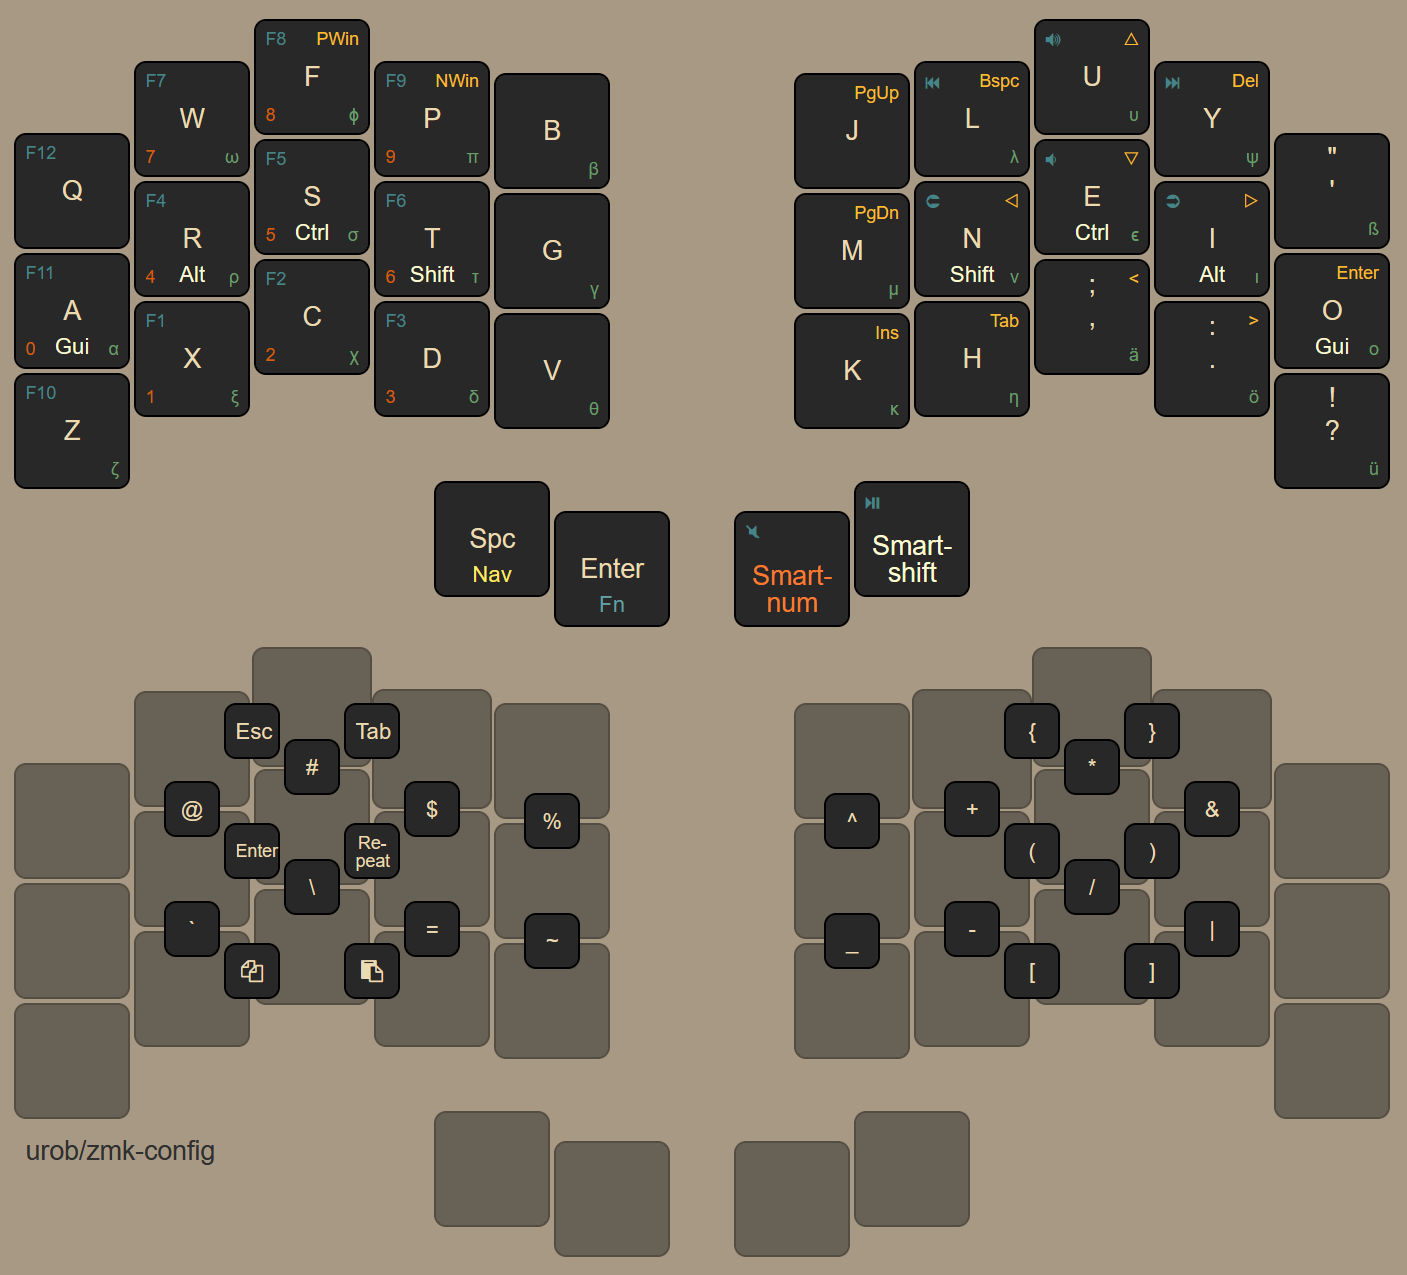
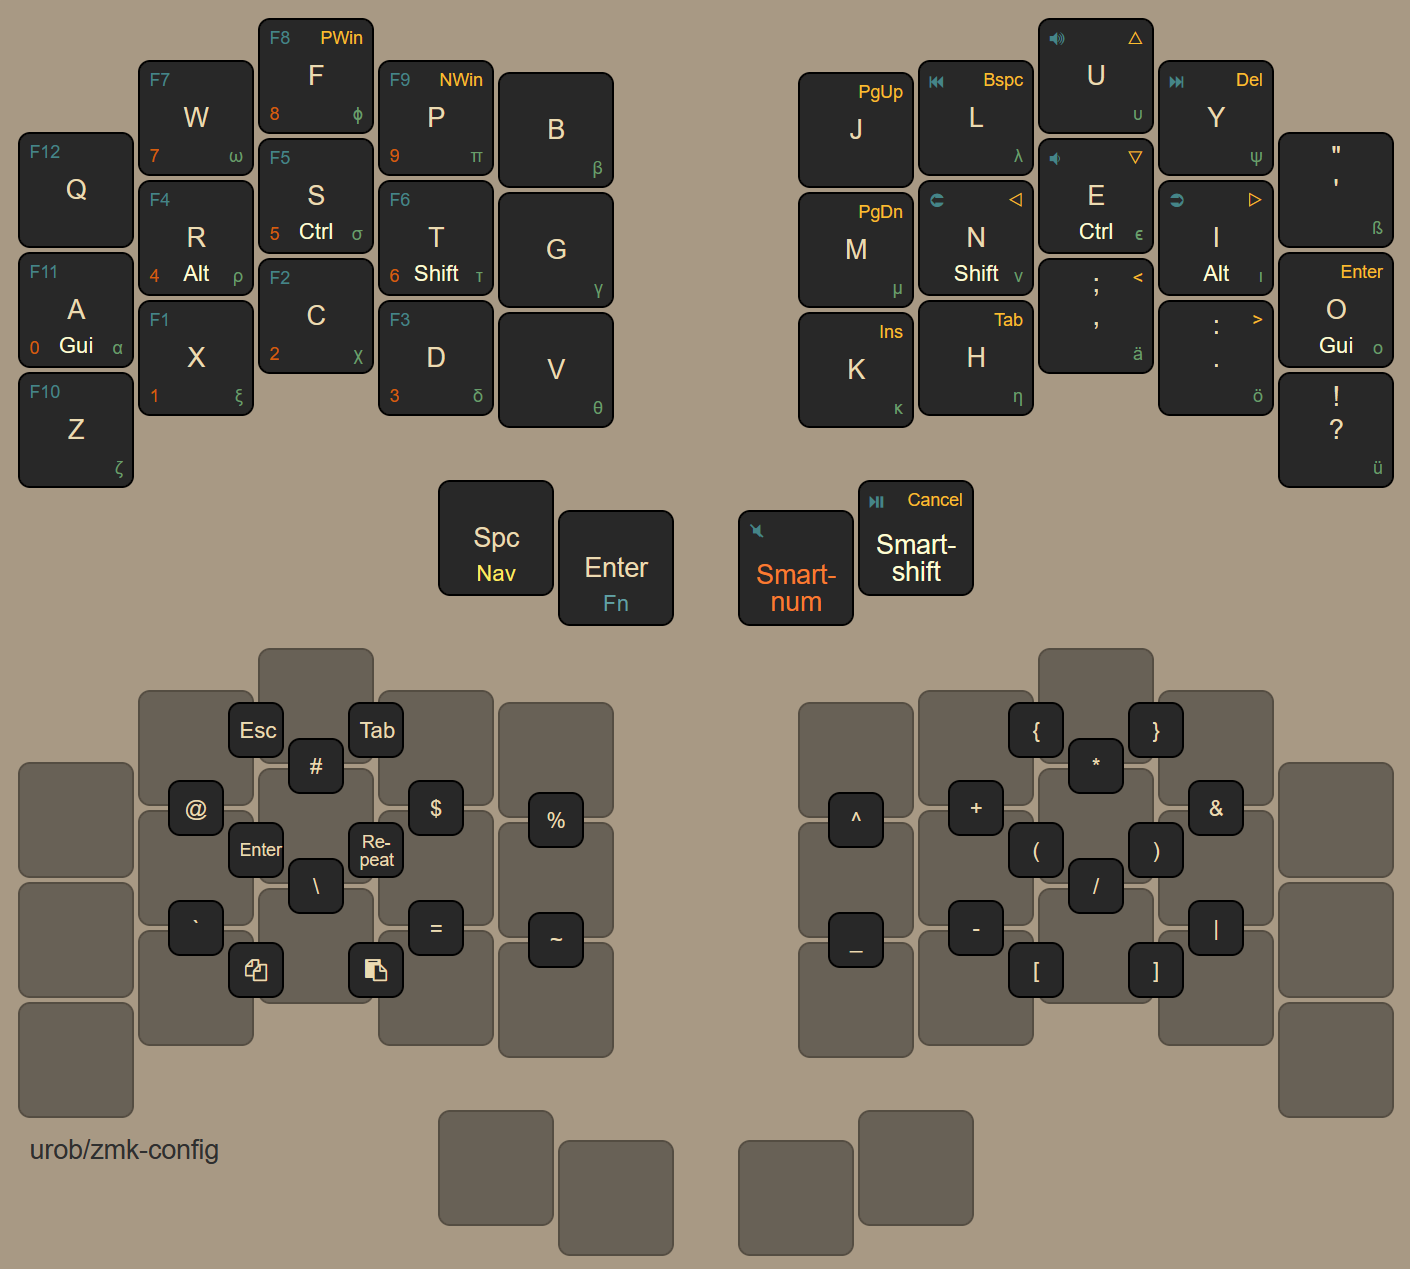
Expand documentation

diff --git a/readme.md b/readme.md
@@ -4,7 +4,7 @@ This is my personal [ZMK firmware](https://github.com/zmkfirmware/zmk/) configur
 It consists of a 34-keys base layout that is re-used for various boards, including my
 Corneish Zen and an Advantage 360 pro.
 
-## *Key* features
+## Highlights
 
 - clean keymap + unicode setup using helper macros from
   [zmk-nodefree-config](https://github.com/urob/zmk-nodefree-config)
@@ -13,21 +13,14 @@ Corneish Zen and an Advantage 360 pro.
   larger boards by padding it via a modular structure of "extra keys"
 - ["timer-less" homerow mods](#timeless-homerow-mods) 
 - combos replacing the symbol layer
-- a smart-layer implementation for ZMK that automatically toggles the numbers
-  layer
-- long-pressing the arrow-cluster yields home, end, begin/end of document, and
-  fwd/bwd-delete words
-- sticky shift on right thumb, double-tap (or shift + tap)[^1] activates
-  caps-word
-- <kbd>shift</kbd> + <kbd>,</kbd> morphs into <kbd>;</kbd>  and
-  <kbd>shift</kbd> + <kbd>.</kbd> morphs into <kbd>;</kbd> (freeing up the
-  right pinky for <kbd>? / !</kbd>)
-- <kbd>shift</kbd> + <kbd>ctrl</kbd> + <kbd>,</kbd> morphs into <kbd><</kbd>
-  and <kbd>shift</kbd> + <kbd>ctrl</kbd> + <kbd>.</kbd> morphs into
-  <kbd>></kbd>
+- smart numbers and smart mouse layers that automatically toggle off when done
+- sticky shift on right thumb, double-tap (or shift + tap)[^1] activates caps-word
+- arrow-cluster doubles as <kbd>home</kbd>, <kbd>end</kbd>, <kbd>begin/end of
+  document</kbd> on long-press
+- more intuitive shift-actions: <kbd>, ;</kbd>, <kbd>. :</kbd> and <kbd>? !</kbd>
 - <kbd>shift</kbd> + <kbd>space</kbd> morphs into <kbd>dot</kbd> →
   <kbd>space</kbd> → <kbd>sticky-shift</kbd>
-- "Greek" layer for mathematical typesetting (activated via sticky-layer combo)
+- "Greek" layer for mathematical typesetting (activated as sticky-layer via a combo)
 - modified Github Actions workflow that recognizes git-submodules
 - automated
   [build-scripts](https://github.com/urob/zmk-config/tree/main/scripts#readme)
@@ -147,14 +140,19 @@ PRs, you might find this [ZMK-centric introduction to
 Git](https://gist.github.com/urob/68a1e206b2356a01b876ed02d3f542c7) helpful.
 
 
-## Combo setup
+## Using combos instead of a symbol layer
 
-My layout makes heavy use of combos. Thanks to `global-quick-tap` for combos
-(introduced in above mentioned PR #1387), combo misfires are rare, even when
-rolling keys. Most of my combos are bind to symbols, replacing the usual
-symbols layer seen on many sub-40 keyboard layouts. The combos are designed so
-as to put the most used symbols in easy-to-access locations while also making
-them easy to remember. Specifically:
+I am a big fan of combos for all sort of things. In terms of comfort, I much prefer them
+over accessing layers that involve lateral thumb movements to be activated, especially
+when switching between different layers in rapid succession.
+
+One common concern about overloading the layout with combos is that they lead to
+misfires. Fortunately, the above-mentioned PR #1387, also adds a `global-quick-tap` option 
+for combos, which in my experience all but completely eliminates the problem -- even
+when rolling keys on the home row!
+
+My combo layout aims place the most used symbols in easy-to-access
+locations while also making them easy to remember. Specifically:
 
 - the top vertical-combo row matches the symbols on a standard numbers row
   (except `+` and `&` being swapped)
@@ -162,37 +160,70 @@ them easy to remember. Specifically:
   aligns with superscript `^`; minus `-` aligns with `+`; division `/` aligns
   with multiplication `*`; logical-or `|` aligns with logical-and `&`)
 - parenthesis, braces, brackets are set up symmetrically as horizontal combos
-- cut (on `X + D`), copy, and paste are on the left side for one-handed mouse
-  use
-- `L + Y` activates Greek layer for the next key press, `L + U + Y` activates the shifted
-  Greek layer the next key
-- `tap`, `esc`, `enter` are on horizontal combos
+- left-hand side combos for `tap`, `esc`, `enter`, `cut` (on <kbd>X</kbd> + <kbd>D</kbd>),
+  `copy` and `paste` that go well with right-handed mouse usage
+- <kbd>L</kbd> + <kbd>Y</kbd> switches to the Greek layer for a single key
+  press, <kbd>L</kbd> + <kbd>U</kbd> + <kbd>Y</kbd> activates one-shot shift in
+  addition
+- <kbd>W</kbd> + <kbd>P</kbd> activates the smart mouse layer
 
-## Experimental changes
+## Smart layers and other gimmicks
 
-- I recently reduced my core layout to 34 keys. Backspace and Delete are now on
-  my Navigation-layer. To make room for these keys, I have added hold-taps to
-  the arrow cluster, which now double as Home/End and Beginning/End of
-  document. I really like the new navigation cluster and will likely keep it in
-  one way or another
-- Inspired by Jonas Hietala's
-  [Numword](https://www.jonashietala.se/blog/2021/06/03/the-t-34-keyboard-layout/#where-are-the-digits)
-  for QMK, I implemented my own version of [Smart-layers for
-    ZMK](https://github.com/zmkfirmware/zmk/pull/1451). It is triggered via a
-    single tap on my Num-key (holding the key will activate the num layer as
-    usual without triggering Numword). Similar to Capsword, Numword continues
-    to be activated as long as I type numbers, and deactivates automatically on
-    any other keypress. I found that I use Numword for most of my numbers
-    typing. For single digits, it effectively is a sticky-layer, but
-    importantly I can also use it for multiple digits. The only case where it
-    doesn't deactivate automatically is where immediately after a digit I would
-    type any of the letters on which my numpad is located (WFPRSTXCD), which is
-    rare, but does happen. For these cases I have a CANCEL key on my Nav layer
-    that cancels both Numword and Capsword.
-- Since the switch to 34 keys, I freed up the tap-position on my left-most
-  thumb key. For now I added a secondary Bspc, but I am still searching for a
-  better use. (I tried adding Repeat here but I found that it doesn't work well
-  adjacent to space, which requires to much lateral thumb-movements)
+##### Numword
+
+Inspired by Jonas Hietala's
+[Numword](https://www.jonashietala.se/blog/2021/06/03/the-t-34-keyboard-layout/#where-are-the-digits)
+for QMK, I implemented my own version of [Smart-layers for
+ZMK](https://github.com/zmkfirmware/zmk/pull/1451). It is triggered via a
+single tap on "Smart-Num". Numword continues to be activated as long as I
+type numbers, and deactivates automatically on any other keypress (holding it activates 
+a non-sticky num layer).
+
+After using Numword for about 6 months now, I have been overall very happy with it. When
+typing single digits, it effectively is a sticky-layer but with the added advantage that 
+I can also use it to type multiple digits. 
+
+The main downside is that if a sequence of numbers is *immediately* followed by any of the
+letters on which my numpad is located (WFPRSTXCD), then the automatic deactivation won't
+work. But this is rare -- most number sequences are terminated by `space`, `return` or some form
+of punctuation/delimination. To deal with the rare cases where they aren't, there is a 
+`CANCEL` key on the navigation-layer that deactivates Numword, Capsword and Smart-mouse.
+
+##### Smart-Mouse
+
+Similarly to Numword, I have a smart-mouse layer (activated by comboing
+<kbd>W</kbd> + <kbd>P</kbd>), which replaces the navigation cluster with
+scroll and mouse-movements, and replaces the right thumbs with mouse buttons.
+Pressing any other key automatically deactivates the layer.
+
+##### Capsword
+
+My right thumb triggers three variations of shift: Tapping yields
+sticky-shift (used to capitalize alphas), holding activates a regular shift, and
+double-tapping (or equivalently shift + tap) activates ZMK's Caps-word behavior.
+
+One minor technical detail: While it would be possible to implement the double-tap functionality
+as a tap-dance, this would add a delay when using single taps. To avoid the delays, I 
+instead implemented the double-tap functionality as a mod-morph.
+
+##### Multi-purpose Navigation cluster
+
+To economize on keys, I am using hold-taps on my navigation cluster, which yield `home`, `end`,
+`begin/end of document`, and `delete word forward/backward` on long-presses.
+
+##### Swapper
+
+I am using [Nick Conway](https://github.com/nickconway)'s fantastic
+[tri-state](https://github.com/zmkfirmware/zmk/pull/1366) behavior for a
+one-handed Alt-Tab switcher (`PWin` and `NWin`).
+
+##### Repeat
+
+I recently switched to 25g-chocs on one of my keyboards. I already was a big fan of 
+combos prior to that (even with heavy MX-switches). But with the light chocs, I find 
+that I can now even use them for regular typing. While I haven't yet tried placing alphas 
+on combos, I am currently experimenting with a `repeat` combo on my home row that I 
+use to make writing double-letter words more fun.
 
 ## Issues and workarounds
 
@@ -202,22 +233,29 @@ any functionality (to the contrary, I found that ZMK supports many features
 natively that would require complex user-space implementations in QMK). Below
 are a few remaining issues:
 
-- ZMK does not yet support tap-only combos
-  ([#544](https://github.com/zmkfirmware/zmk/issues/544)). Workaround: pause
-  briefly when chording multiple HRMs together on positions that otherwise would trigger
-  a combo.
-- OS sleep is not yet implemented ([#1077](https://github.com/zmkfirmware/zmk/issues/1077)).
-  Workaround: use sleep-macro instead.
-- `&bootloader` doesn't work with Planck_rev6
-  ([#1086](https://github.com/zmkfirmware/zmk/issues/1086)). Workaround: Manually press
-  reset-button.
+- ZMK does not yet support "tap-only" combos
+  ([#544](https://github.com/zmkfirmware/zmk/issues/544)). As a workaround, one
+  can pause briefly when chording multiple HRMs together on positions that
+  otherwise would trigger a combo. But this is at the top of my ZMK-wishlist.
+- Another item on my wishlist are adaptive keys
+  ([#1624](https://github.com/zmkfirmware/zmk/issues/1624)). This would open
+  the door for things like <kbd>space</kbd><kbd>space</kbd> becoming
+  <kbd>.</kbd><kbd>space</kbd><kbd>sticky-shift</kbd>. (Using tap-dance isn't
+  really an option here due to the delay it adds)
+- A minor thing is that ZMK doesn't yet support any keys on the
+  desktop-user-page; e.g., OS sleep
+  ([#1077](https://github.com/zmkfirmware/zmk/issues/1077),
+  [#1535](https://github.com/zmkfirmware/zmk/issues/1535))
+- Very minor: `&bootloader` doesn't work with stm32 boards like the Planck
+  ([#1086](https://github.com/zmkfirmware/zmk/issues/1086))
 
 [^1]: Really what's happening is that `Shift` + my right home-thumb morph into
   caps-word. This gives me two separate ways of activating it: (1) Holding the
   homerow-mod shift on my left index-finger and then pressing my right home-thumb, which
   is my new preferred way. Or, (2) double-tapping the right home-thumb, which also works
   because the first tap yields sticky-shift, activating the mod-morph upon the second
-  tap.
+  tap. But even when only activating via double-tapping, this implementation is advantageous
+  compared to using tap-dance as it does not create any delay when single-tapping the key.
 
 [^2]: I call it "timer-less", because the large tapping-term makes the behavior
   insensitive to the precise timings. One may say that there is still the
